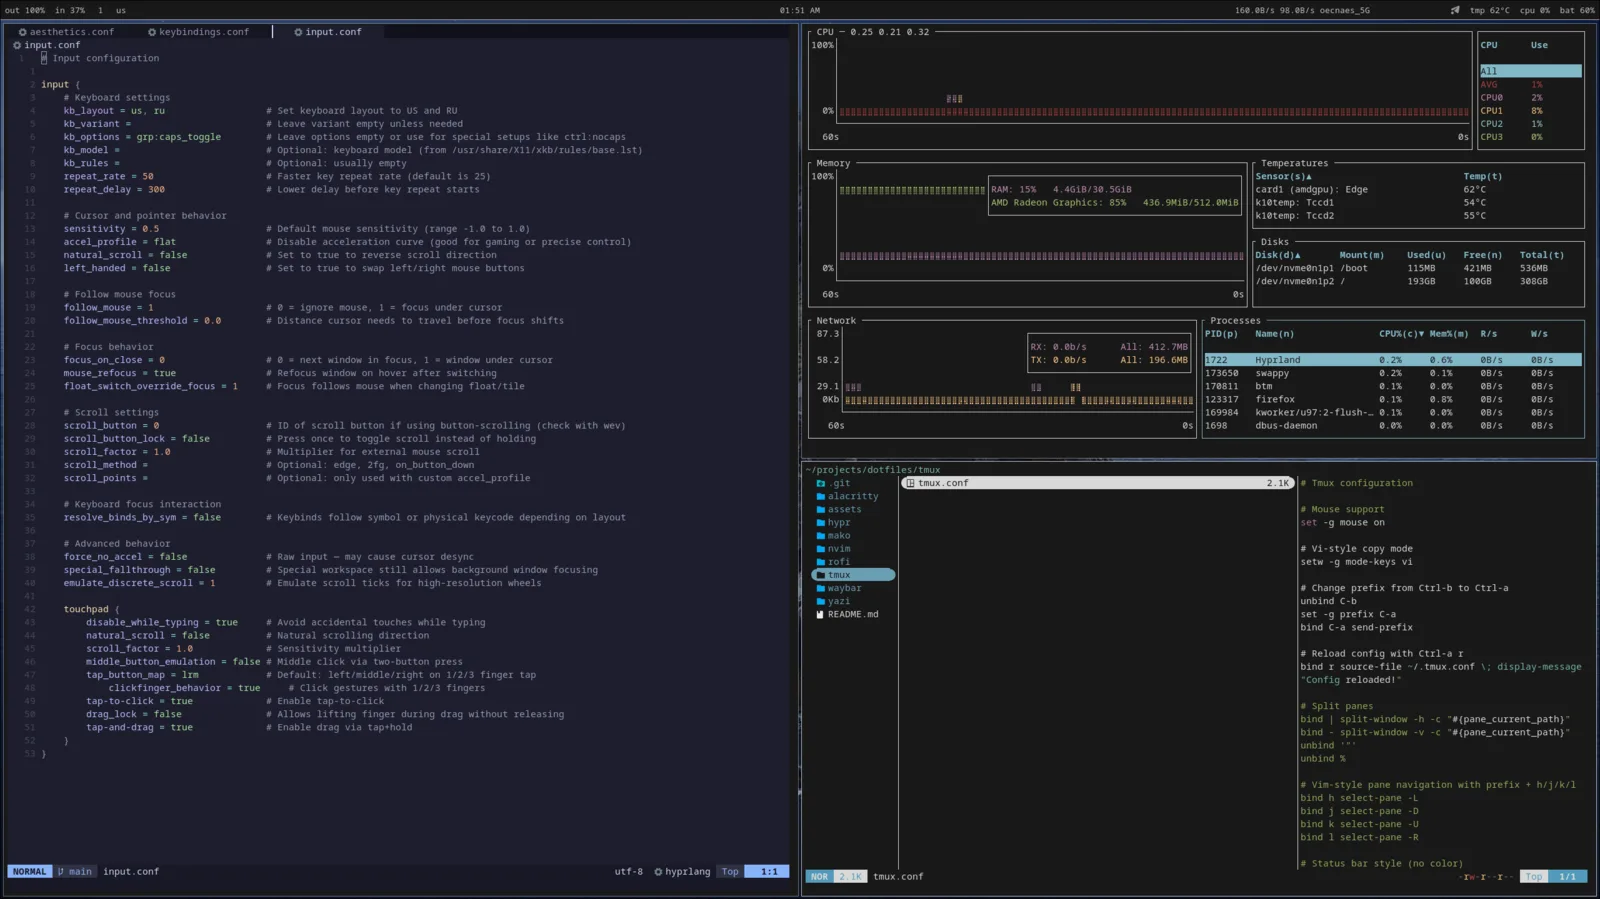
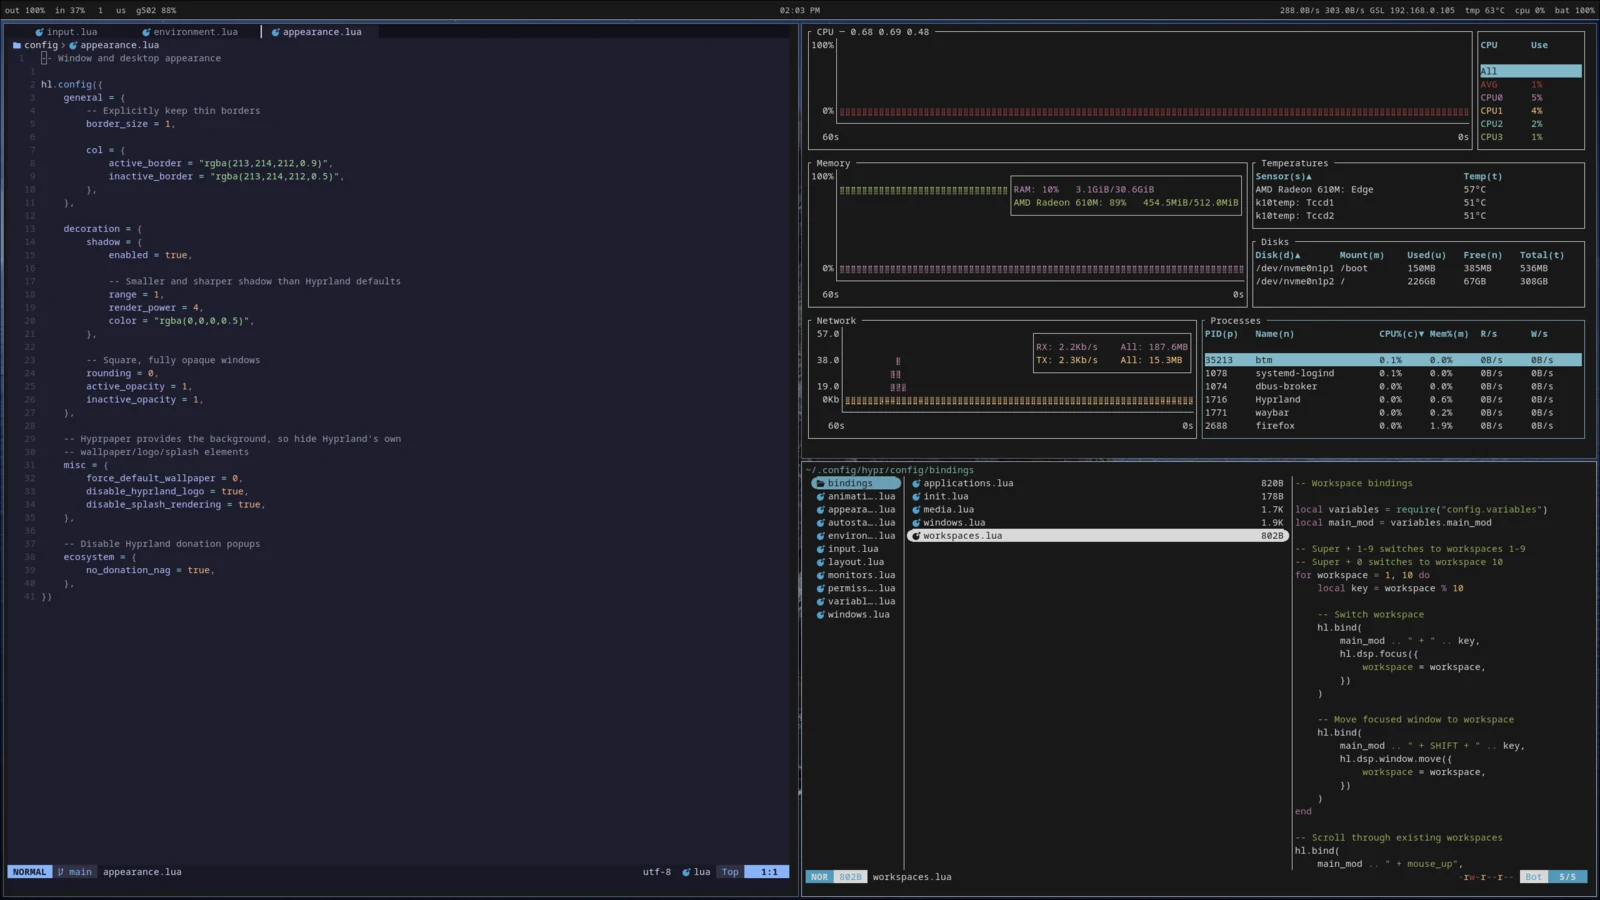
docs: update README and screenshots

diff --git a/README.md b/README.md
@@ -1,14 +1,13 @@
 # dotfiles
 
-Personal configuration files for Arch Linux with Hyprland.
+Personal Arch Linux configs for Hyprland
 
-These configs contain hardware- and machine-specific settings. Review monitor descriptors, device names, paths, and package names before using them.
+Some paths and hardware settings are specific to my system
 
 [![Arch Linux](https://img.shields.io/badge/Arch_Linux-1793D1?style=flat&logo=archlinux&logoColor=white)](https://archlinux.org/)
 [![Hyprland](https://img.shields.io/badge/Hyprland-58E1FF?style=flat&logo=hyprland&logoColor=111111)](https://hyprland.org/)
 [![Wayland](https://img.shields.io/badge/Wayland-FFBC00?style=flat&logo=linux&logoColor=111111)](https://wayland.freedesktop.org/)
 [![Neovim](https://img.shields.io/badge/Neovim-57A143?style=flat&logo=neovim&logoColor=white)](https://neovim.io/)
-[![tmux](https://img.shields.io/badge/tmux-1BB91F?style=flat&logo=tmux&logoColor=white)](https://github.com/tmux/tmux)
 [![Yazi](https://img.shields.io/badge/Yazi-111111?style=flat&logo=files&logoColor=white)](https://yazi-rs.github.io/)
 
 ## Screenshots
@@ -17,102 +16,45 @@ These configs contain hardware- and machine-specific settings. Review monitor de
 
 ![Rofi launcher](assets/rofi.webp)
 
-![Neovim editing Hyprland config](assets/neovim.webp)
+![Neovim](assets/neovim.webp)
 
-## Contents
+## Configs
 
-- `hypr/` — modular Hyprland Lua configuration and Hyprpaper configuration.
-- `waybar/` — status bar for audio, workspaces, keyboard layout, network, system information, and battery levels.
-- `nvim/` — Lazy.nvim-based configuration with language tooling, completion, navigation, Git integration, and UI plugins.
-- `tmux/` — `Ctrl-a` prefix, vi copy mode, Wayland clipboard integration, Vim-style pane navigation, and TPM plugins.
-- `yazi/` — terminal file manager with hidden files, PDF text previews, and file-opening rules.
-- `rofi/` — compact application launcher using `drun` mode.
-- `alacritty/` — terminal configuration with live reload, OSC52 clipboard support, and a Bash login shell.
-- `mako/` — top-right notification daemon configuration.
+- `hypr/` — modular Hyprland config using the Lua API added in version 0.55
+- `waybar/` — status bar
+- `nvim/` — Neovim config using lazy.nvim
+- `rofi/` — application launcher
+- `alacritty/` — terminal config
+- `mako/` — notification daemon
+- `yazi/` — terminal file manager
 
-## Hyprland
+## Keybindings
 
-The Hyprland configuration uses the Lua configuration API introduced in Hyprland 0.55.
-
-The main entrypoint is:
-
-```text
-hypr/hyprland.lua
-```
-
-Configuration is split into modules under `hypr/config/`. Keybindings are grouped further under `hypr/config/bindings/`.
-
-Hyprpaper still uses its own configuration format:
-
-```text
-hypr/hyprpaper.conf
-```
-
-## Installation
-
-There is no installation script. Link or copy each configuration manually.
-
-Expected locations:
-
-```text
-~/.config/hypr
-~/.config/waybar
-~/.config/nvim
-~/.config/rofi
-~/.config/alacritty
-~/.config/mako
-~/.config/yazi
-~/.tmux.conf
-```
-
-Example symlinks from the repository root:
-
-```bash
-ln -s "$PWD/hypr" ~/.config/hypr
-ln -s "$PWD/waybar" ~/.config/waybar
-ln -s "$PWD/nvim" ~/.config/nvim
-ln -s "$PWD/rofi" ~/.config/rofi
-ln -s "$PWD/alacritty" ~/.config/alacritty
-ln -s "$PWD/mako" ~/.config/mako
-ln -s "$PWD/yazi" ~/.config/yazi
-ln -s "$PWD/tmux/tmux.conf" ~/.tmux.conf
-```
+| Binding | Action |
+|---|---|
+| `Super + Return` | Open Alacritty |
+| `Super + D` | Open Rofi |
+| `Super + E` | Open Yazi |
+| `Super + B` | Open Firefox |
+| `Super + H/J/K/L` | Focus windows |
+| `Super + Shift + H/J/K/L` | Move windows |
+| `Super + Ctrl + H/J/K/L` | Swap windows |
+| `Super + 1–0` | Switch workspace |
+| `Super + Shift + 1–0` | Move window to workspace |
+| `Super + Q` | Close window |
+| `Super + F` | Toggle fullscreen |
+| `Super + Space` | Toggle floating |
+| `Print` | Select and edit screenshot |
 
 ## Machine-specific settings
 
-Review these files before linking:
+Values likely to need changes
 
-- `hypr/config/monitors.lua`
-- `hypr/config/variables.lua`
-- `hypr/config/bindings/media.lua`
-- `hypr/config/windows.lua`
-- `hypr/hyprpaper.conf`
-- `waybar/config`
-
-## Required packages
-
-Desktop packages:
-
-```text
-hyprland hyprpaper hyprpolkitagent waybar rofi alacritty mako tmux yazi firefox
-wl-clipboard cliphist grim slurp swappy brightnessctl wireplumber pulsemixer
-bottom zathura sxiv file-roller
-```
-
-Neovim and development tooling:
-
-```text
-neovim git make ripgrep fd nodejs npm python python-pip jdk-openjdk
-black isort flake8 clang clang-tools-extra google-java-format stylua shfmt shellcheck
-```
-
-Package names may differ outside Arch Linux.
-
-## Not included
-
-- Secrets or tokens
-- SSH configuration
-- Browser profiles
-- Wallpaper files
-- Full-system package manifest
-- Machine bootstrap script
+- `hypr/config/monitors.lua` — monitor descriptor, resolution, refresh rate, and scale
+- `hypr/config/variables.lua` — default applications
+- `hypr/config/input.lua` — keyboard layouts and pointer settings
+- `hypr/config/bindings/media.lua` — ASUS keyboard backlight device
+- `hypr/config/windows.lua` — application workspace rules
+- `hypr/hyprpaper.conf` — wallpaper path
+- `waybar/config` — script path, network interface, and thermal zone
+- `waybar/scripts/g502-battery` — Logitech mouse model
